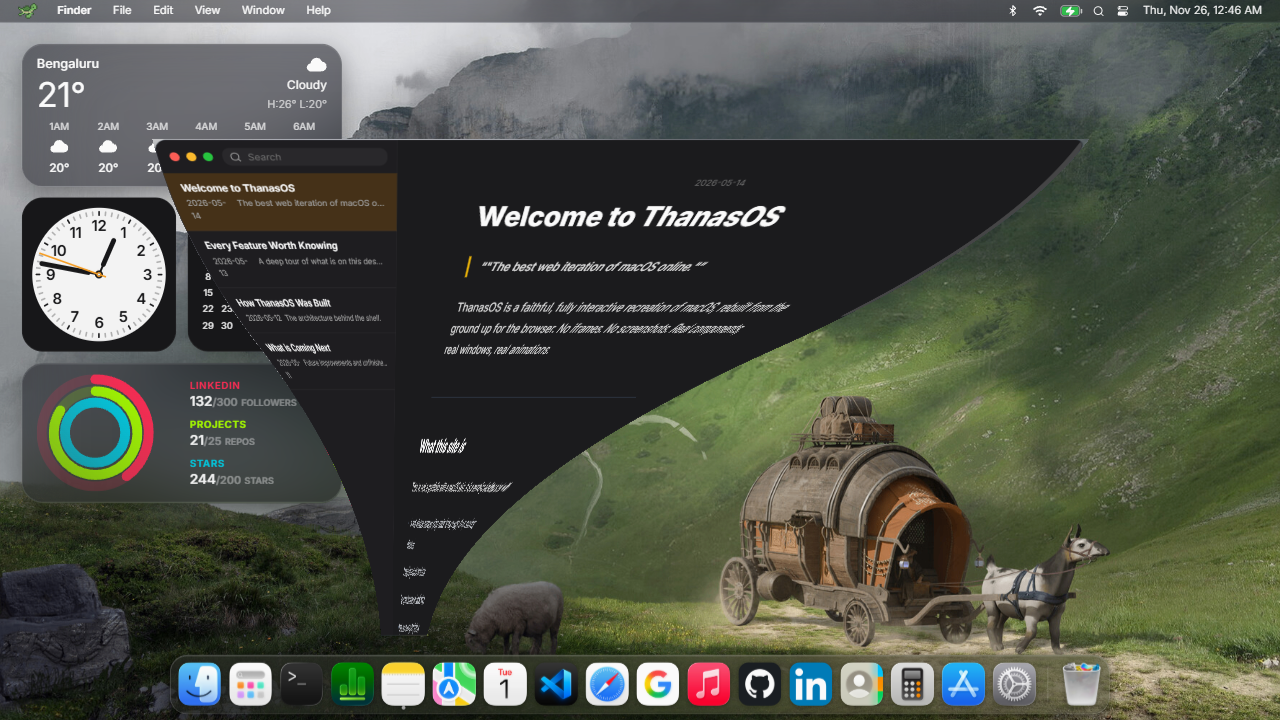
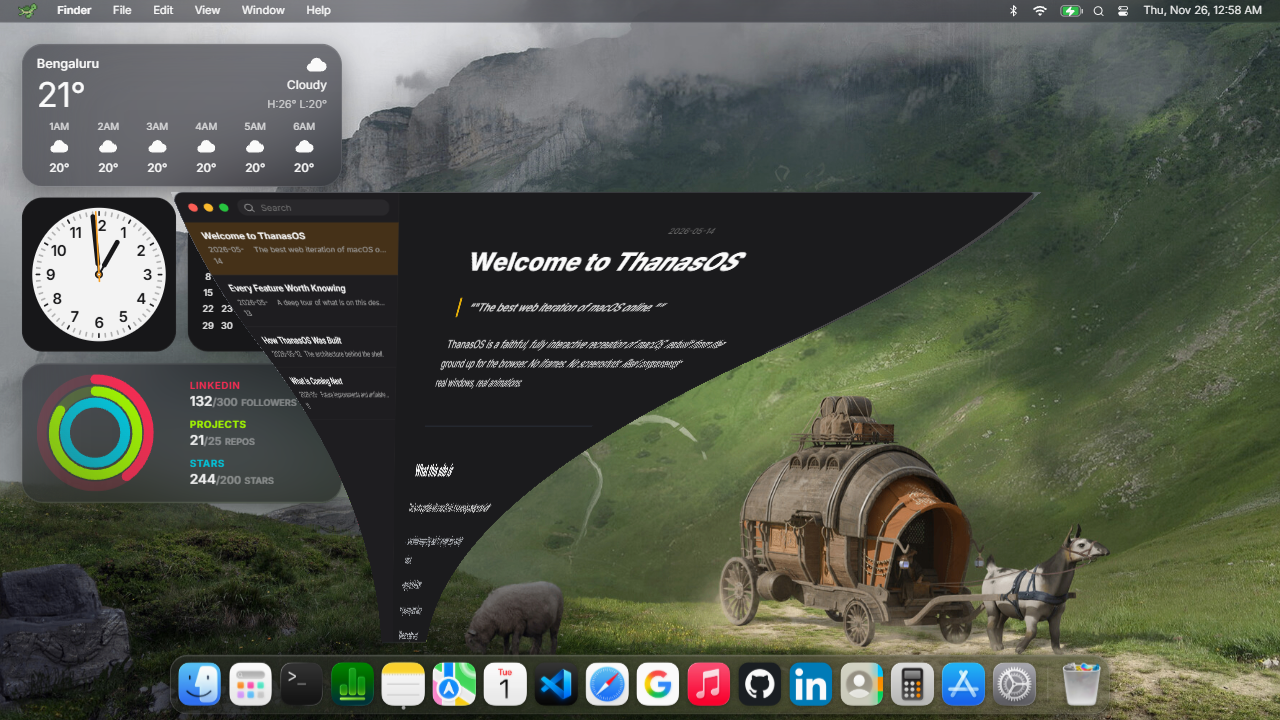
feat: 添加 Dock 的 scissor 处理，确保特效在 Dock 之上渲染

diff --git a/src/canvas-os/surface.ts b/src/canvas-os/surface.ts
@@ -361,6 +361,20 @@ export class Surface {
     return this.effects.length;
   }
 
+  /** Dock 的物理像素矩形：特效之后用它做 scissor，把 Dock 重新画到最上层。 */
+  private dockScissor(): { x: number; y: number; w: number; h: number } | null {
+    const el = document.querySelector<HTMLElement>('[data-dock-root]');
+    if (!el) return null;
+    const r = el.getBoundingClientRect();
+    if (r.width < 1 || r.height < 1) return null;
+    const dpr = this.texW / Math.max(1, this.cssW);
+    const x = Math.max(0, Math.floor(r.left * dpr) - 1);
+    const y = Math.max(0, Math.floor(r.top * dpr) - 1);
+    const right = Math.min(this.texW, Math.ceil((r.left + r.width) * dpr) + 1);
+    const bottom = Math.min(this.texH, Math.ceil((r.top + r.height) * dpr) + 1);
+    return { x, y, w: Math.max(0, right - x), h: Math.max(0, bottom - y) };
+  }
+
   private draw(): void {
     if (this.disposed || !this.pipelineMain || !this.liveTex || !this.bindGroup) return;
     if (this.canvas.width === 0 || this.canvas.height === 0) return;
@@ -394,6 +408,18 @@ export class Surface {
       pass.setPipeline(this.pipelineFx);
       pass.setBindGroup(0, this.bindGroup);
       pass.draw(6, count);
+
+      // ⚠ Dock 在 live 纹理里，特效画完会盖住它。
+      // 用 scissor 把 Dock 区域按最新一帧重绘一次 —— Dock 永远在动画之上，
+      // 不需要把 Dock 拆出 canvas，也不增加任何管线/uniform。
+      const dock = this.dockScissor();
+      if (dock && dock.w > 0 && dock.h > 0) {
+        pass.setScissorRect(dock.x, dock.y, dock.w, dock.h);
+        pass.setPipeline(this.pipelineMain);
+        pass.setBindGroup(0, this.bindGroup);
+        pass.draw(6);
+        pass.setScissorRect(0, 0, this.texW, this.texH);
+      }
     }
 
     pass.end();

diff --git a/src/components/macos/Dock.tsx b/src/components/macos/Dock.tsx
@@ -259,6 +259,7 @@ export const Dock = () => {
 
       <div
         ref={dockRef}
+        data-dock-root
         className={`fixed bottom-2 left-1/2 -translate-x-1/2 backdrop-blur-macos-heavy rounded-3xl shadow-macos-glass z-[70] ${
           settings.reducedMotion ? '' : 'transition-all duration-500 ease-out'
         } ${

diff --git a/docs/HTML-IN-CANVAS.md b/docs/HTML-IN-CANVAS.md
@@ -57,6 +57,13 @@ No context API changes, no new dependencies, no build config changes.
    side margins follow `mix(mix(fromP, toP, slide), fromP, easeInOutQuad(t))`.
    Content is **compressed** into the shrinking band, never cropped.
 
+### Dock stays above every effect
+
+The dock is part of the captured desktop, so an effect quad would otherwise paint over
+it. After the effect pass the renderer re-draws the **docked region** from the live
+texture with a scissor rectangle (`data-dock-root`); no extra pipeline, uniform or
+texture is needed. Dock magnification therefore stays visible above smoke and genie.
+
 DOM stays fully interactive and accessible: hit-testing follows the original layout,
 so drag, resize, inputs and dock magnification keep working.
 
